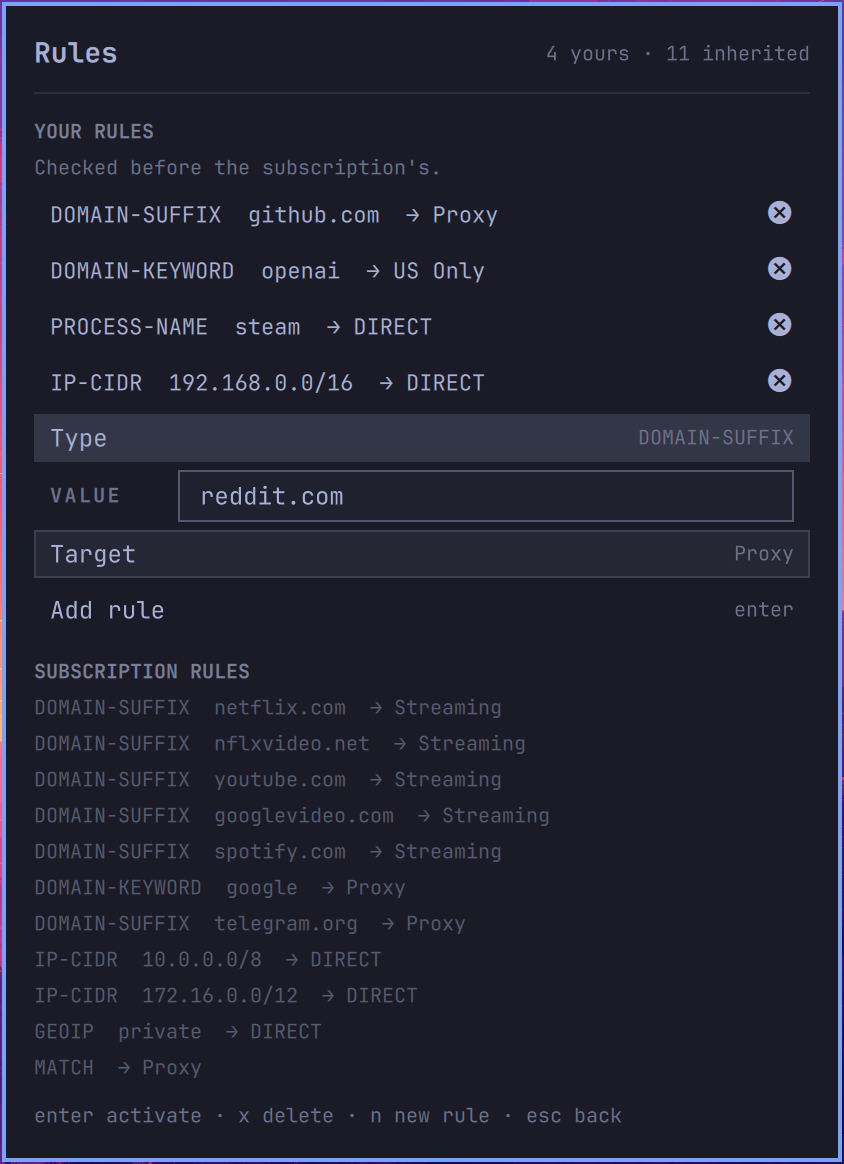
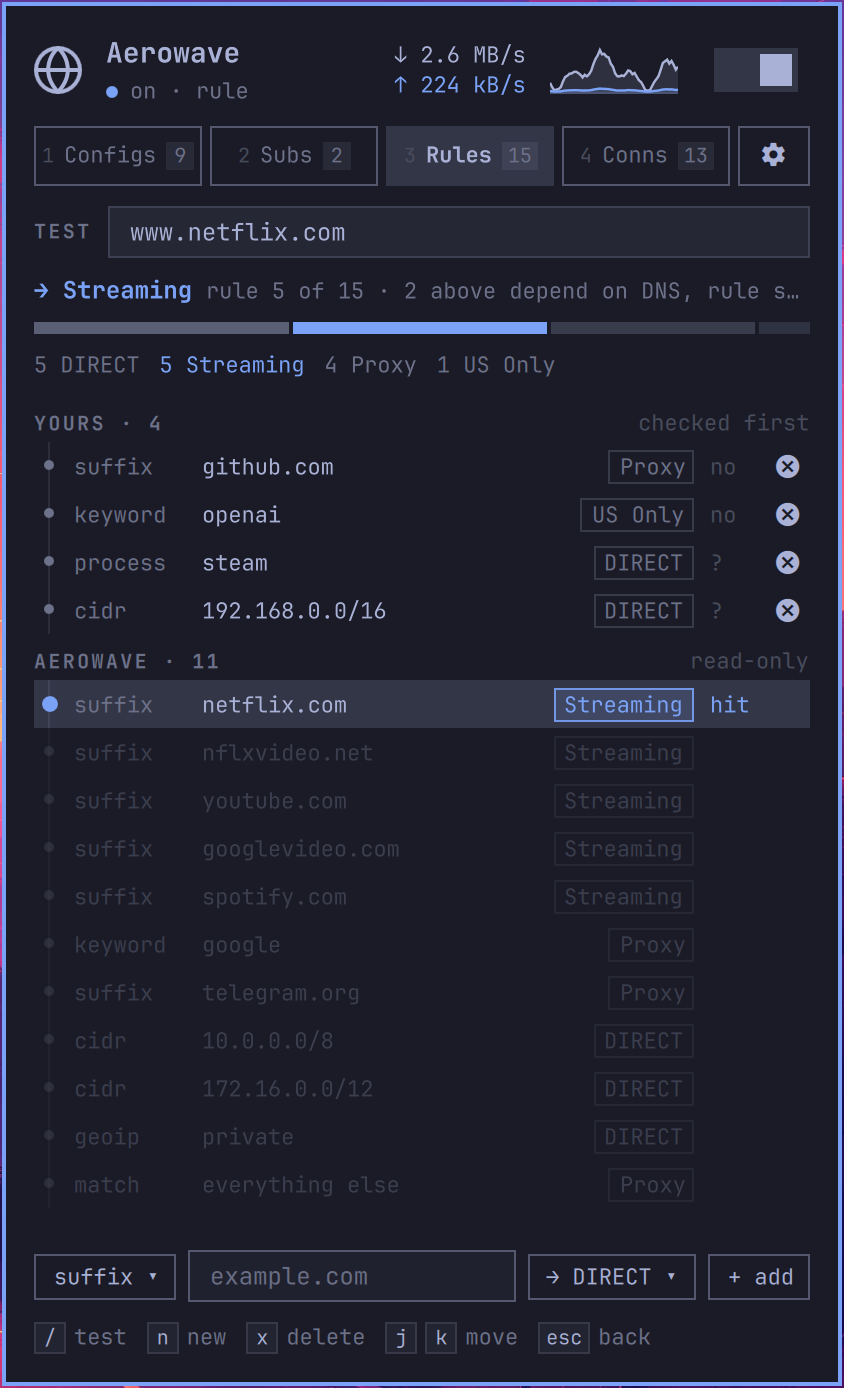
docs: recapture screenshots for the tabbed panel

diff --git a/README.md b/README.md
@@ -13,7 +13,7 @@ Subscriptions, groups, latency, rules, TUN, and live connections, one keypress a
 [![Bar widget](https://img.shields.io/badge/plugin-bar%20widget-bb9af7)](manifest.json)
 [![License: MIT](https://img.shields.io/badge/license-MIT-9ece6a)](LICENSE)
 
-![Omihomo's main panel, connections log, and rules editor open over the Omarchy desktop](preview.png)
+![Omihomo's configs, connections, and rules views open over the Omarchy desktop](preview.png)
 
 </div>
 
@@ -33,13 +33,13 @@ Subscriptions, groups, latency, rules, TUN, and live connections, one keypress a
 
 <table>
   <tr>
-    <td align="center" width="33%"><img src="assets/screenshots/main.png" alt="Main panel with status, configs, and groups"><br><sub>Status, configs, and groups</sub></td>
+    <td align="center" width="33%"><img src="assets/screenshots/configs.png" alt="Configs view with the traffic graph, groups, and latency"><br><sub>Traffic, groups, and latency</sub></td>
     <td align="center" width="33%"><img src="assets/screenshots/subscriptions.png" alt="Subscriptions with quota and expiry"><br><sub>Subscriptions with quota and expiry</sub></td>
-    <td align="center" width="33%"><img src="assets/screenshots/connections.png" alt="Connections log with open and closed stacks"><br><sub>Connections log</sub></td>
+    <td align="center" width="33%"><img src="assets/screenshots/connections.png" alt="Connections view with process-to-config flows and the log"><br><sub>Flows and the connections log</sub></td>
   </tr>
   <tr>
-    <td align="center"><img src="assets/screenshots/rules.png" alt="Rules view adding a rule"><br><sub>Your rules and the subscription's</sub></td>
-    <td align="center"><img src="assets/screenshots/manage.png" alt="Settings with autostart, Tailscale, and acceleration"><br><sub>Autostart, Tailscale, and TUN acceleration</sub></td>
+    <td align="center"><img src="assets/screenshots/rules.png" alt="Rules view testing a hostname against the rules"><br><sub>Rule tester and your rules</sub></td>
+    <td align="center"><img src="assets/screenshots/settings.png" alt="Settings with mode, TUN, autostart, and Tailscale"><br><sub>Mode, TUN, autostart, and Tailscale</sub></td>
     <td></td>
   </tr>
 </table>
